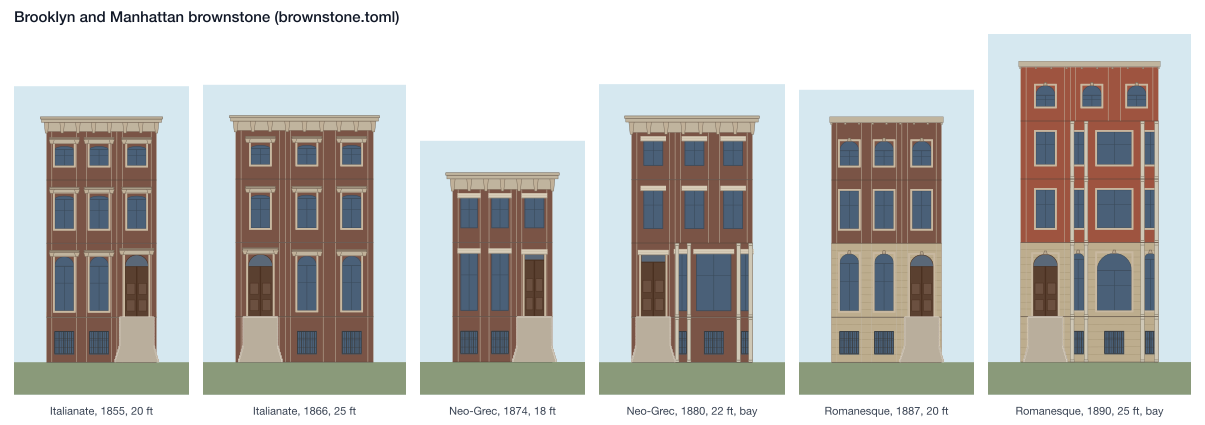
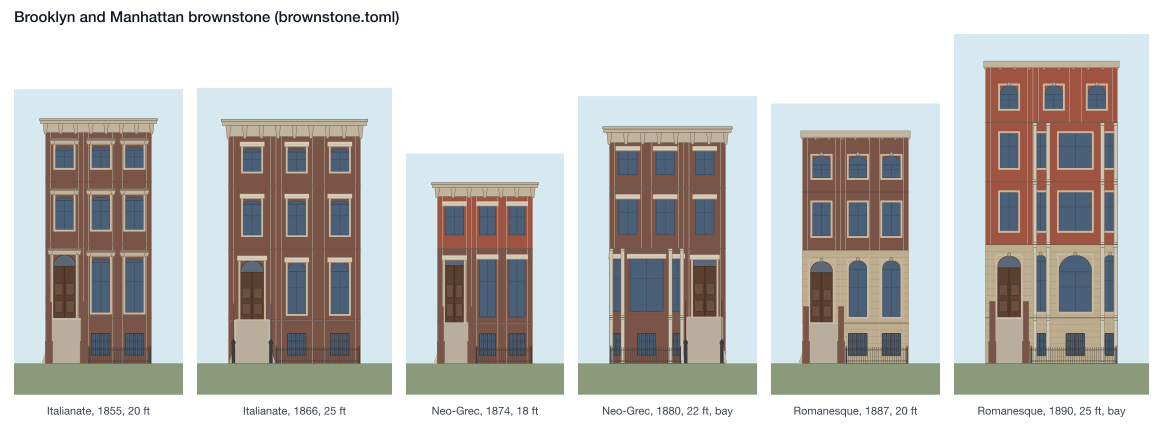
Brownstone and SoHo: variety and grown ironwork
Brownstone:
- the dress (Italianate, Neo-Grec, Romanesque) comes from an overlapping
  date ramp;
- storey heights and counts, the hood, the parlour head, brick bedroom
  floors and the cornice depth are the builder's;
- the stoop's balustrades are grown, in brownstone or cast iron, seen edge
  on with their newels;
- an iron areaway fence with spear-headed pickets is grown.

SoHo:
- an iron front is painted in one of five colours, and a brick loft laid in
  one of three bricks;
- the order and the window heads are drawn by date as odds;
- storey counts and heights vary;
- a name-plate pediment and a vault-light platform set with lilac lenses
  are grown.

diff --git a/tests/unit/test_civic_styles.py b/tests/unit/test_civic_styles.py
@@ -135,16 +135,27 @@ def test_spanish_tower_rises_clear_of_a_low_tile_roof_and_ground_windows_are_gri
 
 
 def test_brownstone_dress_by_date_and_the_stoop_climbs_to_the_parlour_door():
-    assert [brownstone_dress(y) for y in (1860, 1878, 1888)] == ["italianate", "neo_grec", "romanesque"]
+    from collections import Counter
+
+    def dress(year):
+        return Counter(derive_brownstone(BrownstoneSite(year, K.ORDINARY, seed))[0].attrs["kind"] for seed in range(30)).most_common(1)[0][0]
+
+    assert [dress(y) for y in (1860, 1878, 1892)] == ["italianate", "neo_grec", "romanesque"]
+    assert brownstone_dress(1860) == "italianate"
     for site in (BrownstoneSite(1860, K.ORDINARY, 0), BrownstoneSite(1888, K.ORDINARY, 1)):
         b, _ = generate_brownstone(site)
-        stoop = next(n for n in walk(b) if n.kind == "gable" and n.props["form"] == "stoop")
+        stoop = next(n for n in walk(b) if n.kind == "gable" and n.id.endswith("/stoop"))
         door = next(n for n in walk(b) if n.kind == "opening" and n.props["opening_type"] == "pedestrian_entrance")
         assert math.isclose(stoop.props["y"] + stoop.props["h"], door.props["y"])
         assert stoop.props["x"] <= door.props["x"] + door.props["w"] / 2.0 <= stoop.props["x"] + stoop.props["w"]
 
-    def hoods(year):
-        b, _ = generate_brownstone(BrownstoneSite(year, K.ORDINARY))
-        return {n.kind for n in walk(b) if n.id.endswith("/hood")}
+    def hoods(year, seed):
+        lot, _ = derive_brownstone(BrownstoneSite(year, K.ORDINARY, seed))
+        b, _ = generate_brownstone(BrownstoneSite(year, K.ORDINARY, seed))
+        return lot.attrs["kind"], {n.kind for n in walk(b) if n.id.endswith("/hood")}
 
-    assert hoods(1860) == {"cornice"} and hoods(1878) == {"string_course"} and hoods(1888) == set()
+    for seed in range(12):
+        for year in (1860, 1878, 1892):
+            kind, found = hoods(year, seed)
+            expect = {"italianate": [{"cornice"}, {"string_course"}], "neo_grec": [{"string_course"}], "romanesque": [set()]}[kind]
+            assert found in expect, (year, seed, kind, found)

diff --git a/tests/unit/test_soho.py b/tests/unit/test_soho.py
@@ -66,13 +66,20 @@ def test_the_entrance_is_one_door_and_on_its_side():
 
 
 def test_iron_heads_follow_the_date():
-    def heads(year):
-        building, _ = generate_soho(SohoSite(1, year, Programme.LOFT, BuildingClass.COMFORTABLE))
-        return {n.props["head"] for n in walk(building) if n.props.get("opening_type") == "window"}
+    from collections import Counter
 
-    assert heads(1858) == {"round"}
-    assert heads(1866) == {"segmental"}
-    assert heads(1876) == {"flat"}
+    def heads(year):
+        found = Counter()
+        for seed in range(30):
+            building, _ = generate_soho(SohoSite(1, year, Programme.LOFT, BuildingClass.COMFORTABLE, seed))
+            hs = {n.props["head"] for n in walk(building) if n.props.get("opening_type") == "window"}
+            assert len(hs) == 1  # one head for the whole front
+            found[hs.pop()] += 1
+        return found.most_common(1)[0][0]
+
+    assert heads(1856) == "round"
+    assert heads(1868) == "segmental"
+    assert heads(1878) == "flat"
 
 
 def test_every_part_stands_inside_the_part_it_refines():

diff --git a/tests/unit/test_variety.py b/tests/unit/test_variety.py
@@ -130,3 +130,20 @@ def test_a_hundred_seeds_give_a_hundred_paris_fronts_on_one_parcel(street, year,
         for s in range(100)
     }
     assert len(designs) >= 80, len(designs)
+
+
+@pytest.mark.parametrize("year", [1860, 1878, 1890])
+def test_a_hundred_seeds_give_a_hundred_brownstones_on_one_lot(year):
+    from buildings.typologies.brownstone.grammar import BrownstoneSite, generate_brownstone
+
+    designs = {_coarse(generate_brownstone(BrownstoneSite(year, BuildingClass.COMFORTABLE, s, 6.1))[0]) for s in range(100)}
+    assert len(designs) >= 80, len(designs)
+
+
+@pytest.mark.parametrize("year", [1858, 1868, 1885])
+def test_a_hundred_seeds_give_a_hundred_soho_lofts_on_one_lot(year):
+    from buildings.typologies.soho.grammar import generate_soho
+    from buildings.typologies.soho.recipes import Programme, SohoSite
+
+    designs = {_coarse(generate_soho(SohoSite(1, year, Programme.LOFT, BuildingClass.COMFORTABLE, s))[0]) for s in range(100)}
+    assert len(designs) >= 80, len(designs)

diff --git a/src/buildings/render/svg/colors.py b/src/buildings/render/svg/colors.py
@@ -164,6 +164,13 @@ COLORS: dict[str, str] = {
     "trim_white": "#F4F1EA",
     # The shade inside a recessed entry porch.
     "porch_shadow": "#6E6C72",
+    # Cast iron painted to pass for stone, and the amethyst glass of a vault-light platform.
+    "wall_iron_cream": "#E6DDC6",
+    "wall_iron_white": "#EEEBE3",
+    "wall_iron_grey": "#BEBDB5",
+    "wall_iron_buff": "#D6C39C",
+    "wall_iron_sage": "#BAC3AC",
+    "glass_lilac": "#B4A3C8",
 }
 
 # The shade of each pastel: a back wall in shadow under a portal, a zocalo,

diff --git a/src/buildings/render/svg/render.py b/src/buildings/render/svg/render.py
@@ -523,6 +523,7 @@ _WALL_PAINT = {
     "alabaster": _C["wall_alabaster"],
     "chimney_brick": _C["wall_chimney_brick"],
     "coral_stone": _C["wall_coral_stone"],
+    **{k[len("wall_"):]: v for k, v in _C.items() if k.startswith("wall_iron_")},
     **{k[len("shade_"):] + "_shade": v for k, v in _C.items() if k.startswith("shade_")},
     **{k[len("deep_"):] + "_deep": v for k, v in _C.items() if k.startswith("deep_")},
 }
